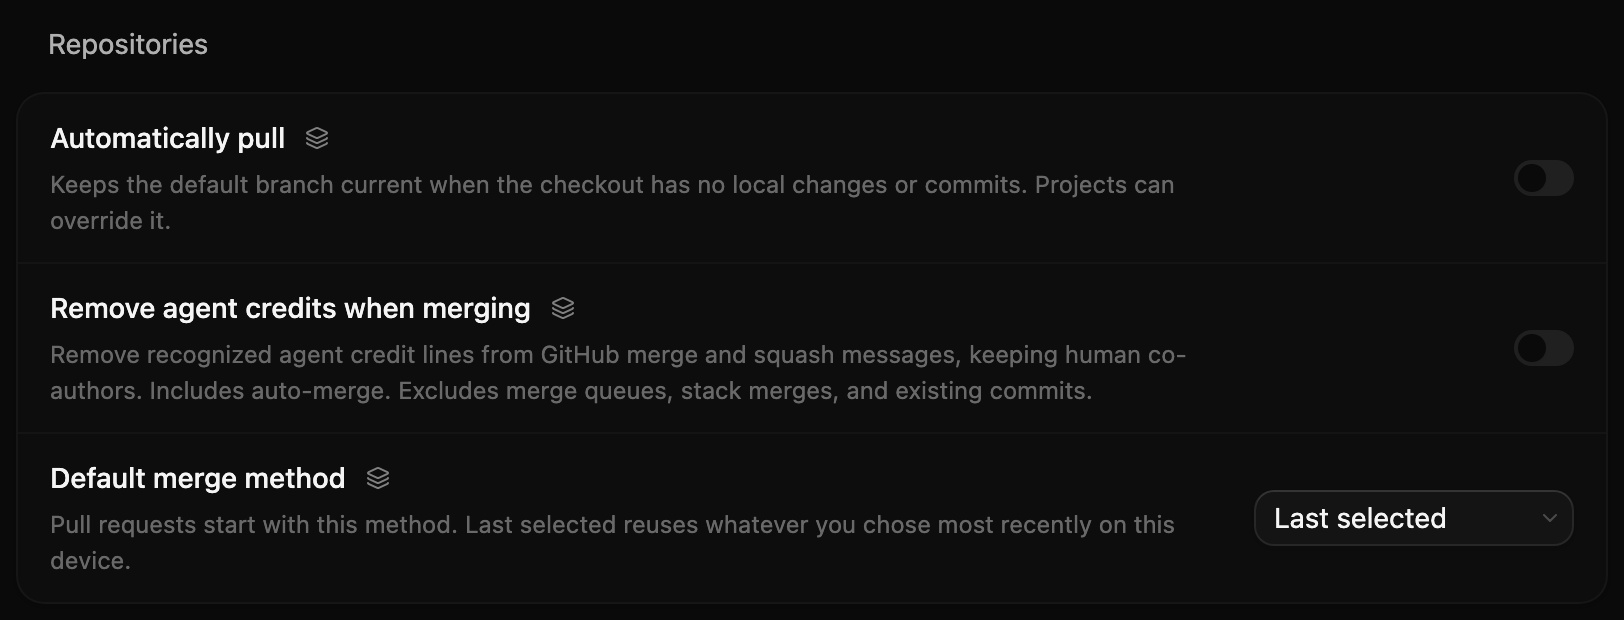
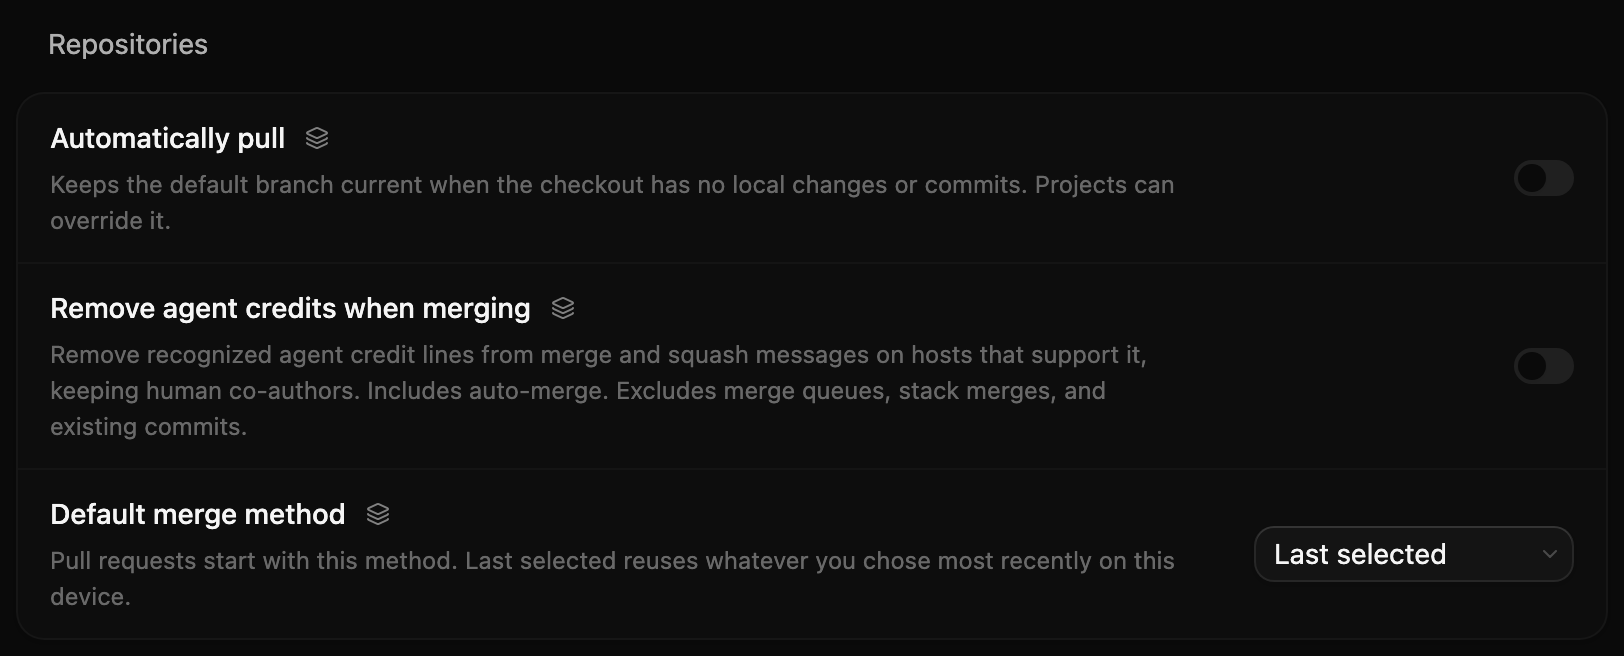
test(design): Settings > Source Control's reference with 3669's merge credits text
ProjectDefaultsSettings.tsx:416 at 3669 says "on hosts that support it", which CW's port already shows.

diff --git a/scripts/gen-settings-pages2-spec.py b/scripts/gen-settings-pages2-spec.py
@@ -87,7 +87,7 @@ repositories = section("Repositories", "".join([
     server_row("Automatically pull", "Keeps the default branch current when the checkout has no local changes or commits. Projects can override it.",
                switch("default", "off", False)),
     server_row("Remove agent credits when merging",
-               "Remove recognized agent credit lines from GitHub merge and squash messages, keeping human co-authors. Includes auto-merge. Excludes merge queues, stack merges, and existing commits.",
+               "Remove recognized agent credit lines from merge and squash messages on hosts that support it, keeping human co-authors. Includes auto-merge. Excludes merge queues, stack merges, and existing commits.",
                switch("default", "off", False)),
     server_row("Default merge method", "Pull requests start with this method. Last selected reuses whatever you chose most recently on this device.",
                pop["select_trigger"]("default", "sm", "Last selected")),
